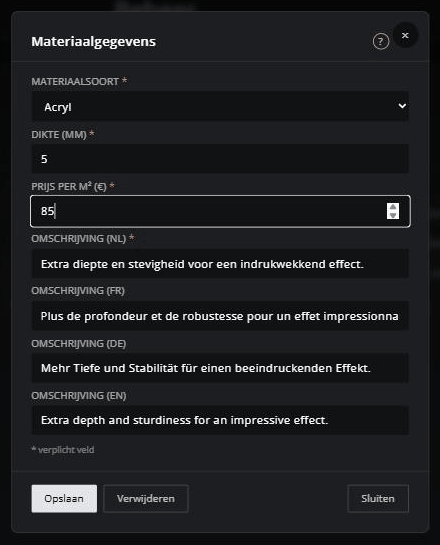
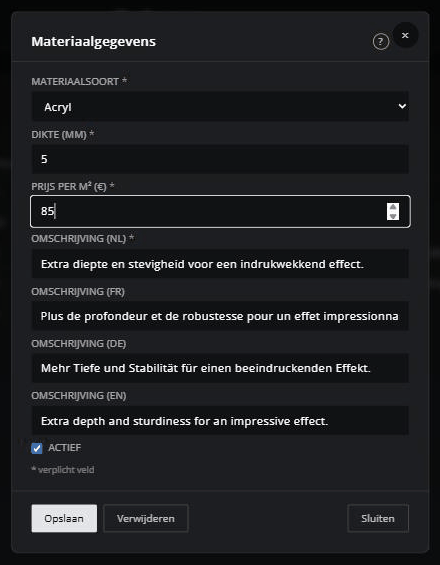
docs: handleiding en screenshot voor de actief-vlag op materialen
Beschrijft de nieuwe Actief-vlag op materialen (kolom, checkbox in de
bewerkmodal, blokkade bij openstaande bestellingen, koppeldialoog bij
heractiveren) in het hoofdstuk Stamgegevens van de gebruikershandleiding,
en vernieuwt de bijbehorende screenshot zodat de nieuwe checkbox zichtbaar is.

diff --git a/src/components/beheer/documentatie/chapters/StamgegevensChapter.tsx b/src/components/beheer/documentatie/chapters/StamgegevensChapter.tsx
@@ -25,6 +25,23 @@ export function StamgegevensChapter() {
           prijs gebruiken we voor elk kunstwerk met dit materiaal dat geen vaste maten heeft, bijvoorbeeld
           &quot;4mm veiligheidsglas, eigen maat&quot;.
         </P>
+        <P>
+          Met <strong>Actief</strong> bepaal je of klanten dit materiaal kunnen kiezen. Een inactief
+          materiaal blijft gewoon bestaan — het verdwijnt alleen uit de materiaalkeuze in de winkel.
+          Blijft er voor een kunstwerk nog één actief materiaal over, dan verdwijnt de keuzelijst
+          helemaal en staat het materiaal er als tekst. Heeft een kunstwerk uitsluitend inactieve
+          materialen, dan is het niet meer bestelbaar en wordt het niet meer getoond.
+        </P>
+        <P>
+          Een materiaal op inactief zetten kan niet zolang er nog openstaande bestellingen met dat
+          materiaal zijn. Rond die bestellingen eerst af of wijs ze af.
+        </P>
+        <P>
+          Zet je een materiaal weer op actief, dan vraagt het scherm of het bij alle kunstwerken
+          aangevinkt moet worden. Kies je ja, dan wordt het materiaal gekoppeld aan elk kunstwerk dat
+          al materialen heeft; kunstwerken zonder materialen (zoals Akoestische stof) blijven
+          ongemoeid.
+        </P>
       </SubSection>
       <SubSection id="stamgegevens-maten" title="Maten">
         <P>De vaste breedte×hoogte-combinaties die je bij een kunstwerk kunt aanvinken.</P>
